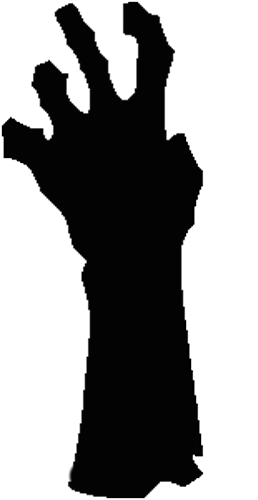
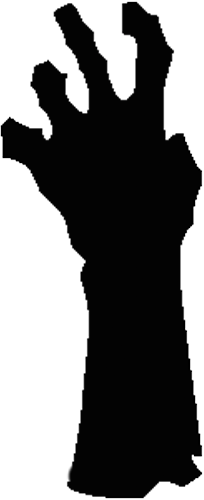
cắt gọn khung img

diff --git a/flappy_bird.py b/flappy_bird.py
@@ -14,11 +14,24 @@ screen = pygame.display.set_mode((screenWidth, screenHeight))   # set kích thư
 groundy = screenHeight * 0.8    # vị trí tối đa để đặt các items là 80% chiều cao của screen
 Items = {}
 sounds = {}
-bird = 'items/b2.png'
+bird = 'items/witch.png'
 background = 'items/bg4.jpg'
 pipe = 'items/pipe1.png'
+list_thunder = []
+timer_thunder = pygame.USEREVENT
 
 def init():
+    pygame.time.set_timer(timer_thunder, 4000)
+    thunder3 = pygame.image.load('items/thunder3.png').convert_alpha()
+    thunder2 = pygame.image.load('items/thunder2.png').convert_alpha()
+    thunder1 = pygame.image.load('items/thunder1.png').convert_alpha()
+    thunder4 = pygame.image.load('items/thunder4.png').convert_alpha()
+    Items['thunder1'] = pygame.transform.scale(thunder3, (300, 300))
+    list_thunder.append(Items['thunder1'])
+    list_thunder.append(pygame.transform.scale(thunder2, (300, 300)))
+    list_thunder.append(pygame.transform.scale(thunder1, (178, 200)))
+    list_thunder.append(pygame.transform.scale(thunder4, (178, 200)))
+
     # Thêm các số vào list Items
     Items['numbers'] = {
         pygame.image.load('items/0.png').convert_alpha(),
@@ -51,7 +64,7 @@ def init():
 
     # Set kích thước của các item trong game:
     Items['background'] = pygame.transform.scale(Items['background'], (630, 720))   # set kích thước cho background
-    Items['bird'] = pygame.transform.scale(Items['bird'], (75, 65)) # set kích thước cho witch
+    Items['bird'] = pygame.transform.scale(Items['bird'], (70, 60)) # set kích thước cho witch
     Items['path'] = pygame.transform.scale(Items['path'], (screenWidth, 112)) # set kích thước cho path
     
     
@@ -97,6 +110,7 @@ def setUpScreen():
             else:
                 screenDisplay()
                 
+            
 
 
 # Viết hàm tạo random các ống (pipe) trên - dưới:
@@ -193,7 +207,8 @@ def mainGame(): # xử lý nghiệp vụ khi chơi game
     countPipe = 0
     countPoint = 0      # Biến hỗ trợ việc tăng tốc độ của game
     dem = 0     # Biến hỗ trợ việc tăng tốc độ của game
-    
+
+    thunder_index = 0
     while True:
         # Kiểm tra sự kiện như trên
         for event in pygame.event.get():
@@ -206,6 +221,11 @@ def mainGame(): # xử lý nghiệp vụ khi chơi game
                     birdVelY = birdFlap
                     flapped = True  # Đã vỗ cánh
                     sounds['wing'].play()
+            if event.type == timer_thunder:
+                if thunder_index < 2:
+                    thunder_index += 1
+                else:
+                    thunder_index = 0
     
         # Kiểm tra va chạm
         if checkColide(birdx , birdy, topPipes, bottomPipes):
@@ -277,6 +297,7 @@ def mainGame(): # xử lý nghiệp vụ khi chơi game
         if x_path <= -400:
             x_path = 0
         
+        screen.blit(list_thunder[thunder_index], (random.randint(-80, 200), 0))
         # Hiển thị bird
         screen.blit(Items['bird'] , (birdx , birdy))
         # screen.blit(Items['bird'] , (screenWidth/2 , 5))
